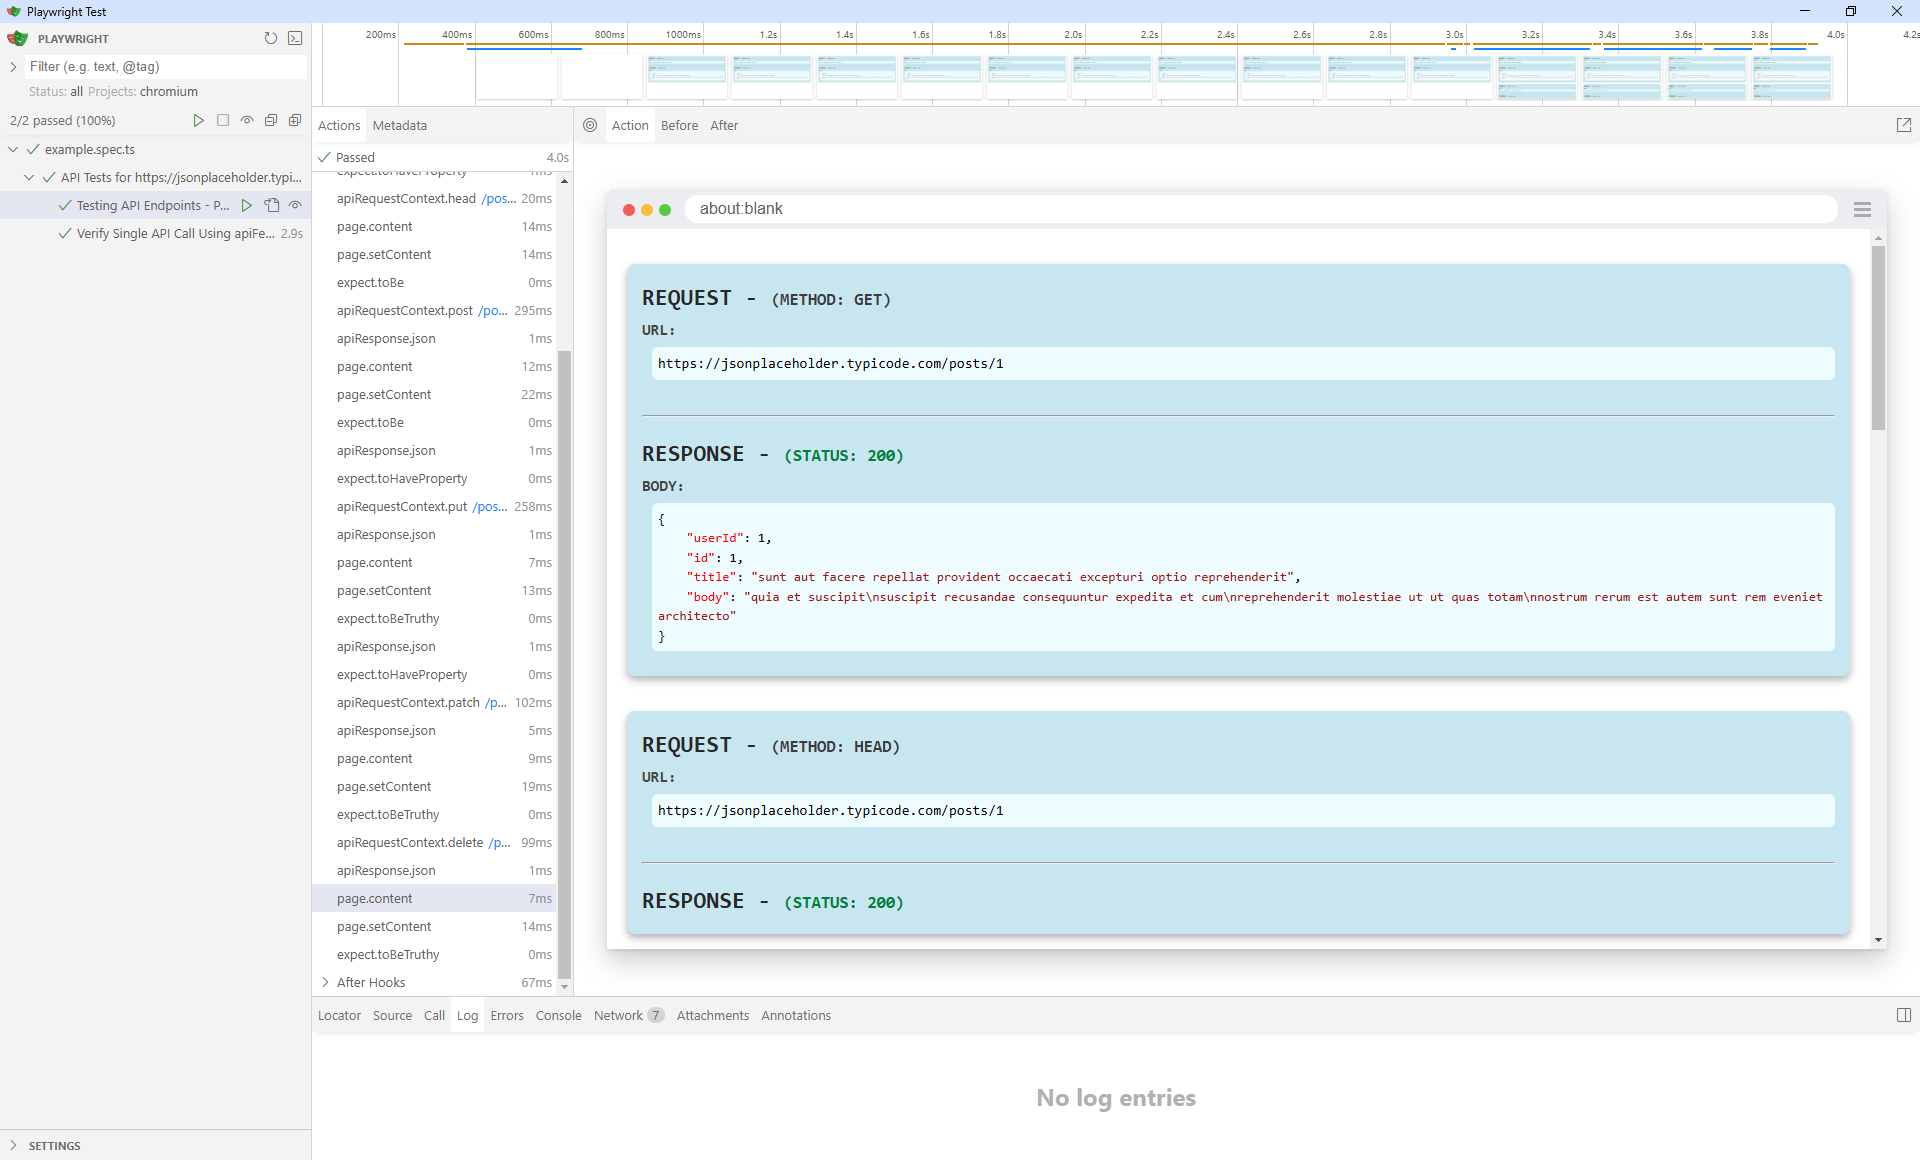
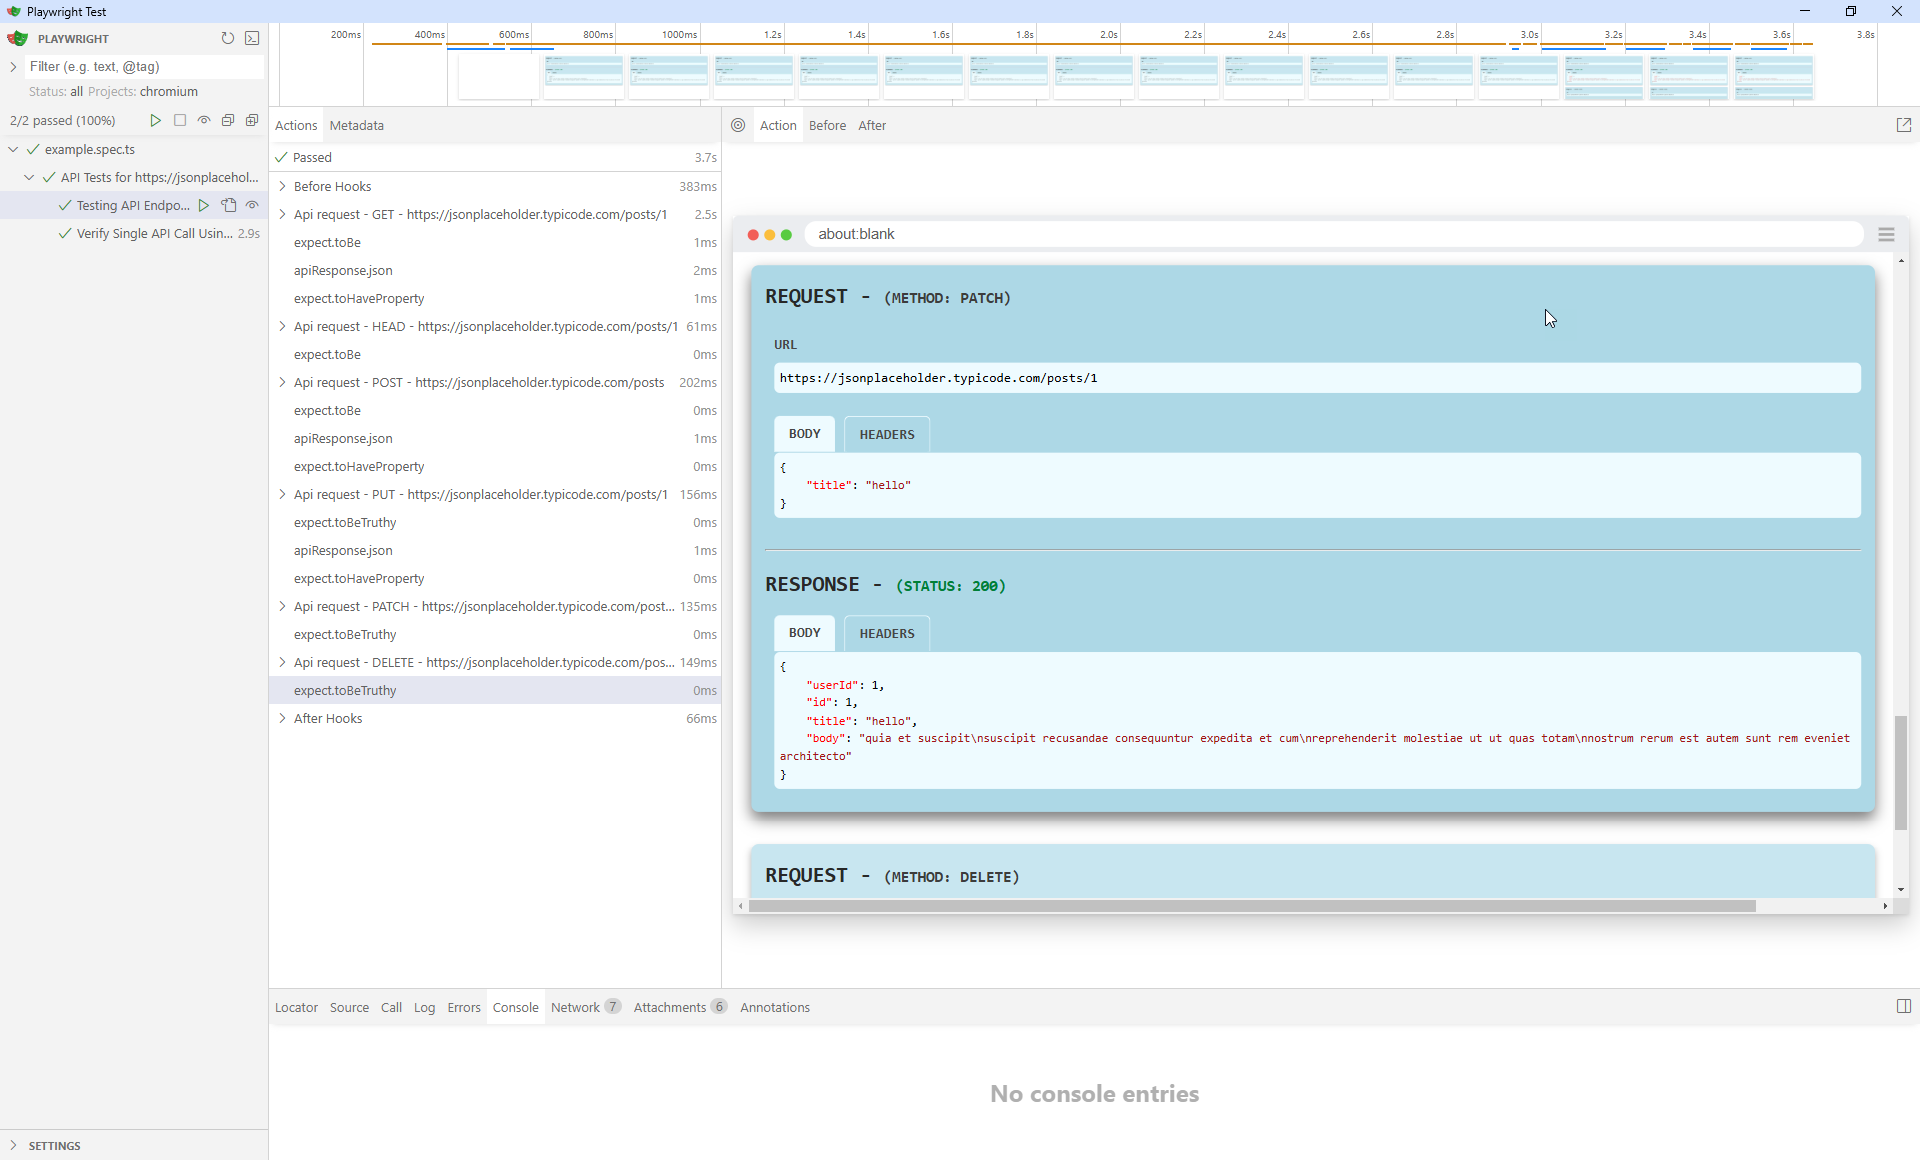
New feature: API requests and results included in HTML report as attachment

diff --git a/src/index.ts b/src/index.ts
@@ -1,6 +1,6 @@
 import hljs from 'highlight.js/lib/common';
 import * as packageJSON from '../package.json'
-import { APIRequestContext, Page, APIResponse, Request } from '@playwright/test';
+import { APIRequestContext, Page, APIResponse, Request, test } from '@playwright/test';
 
 // Obtain the version of highlight.js from package.json
 const hljsVersion: string = packageJSON['dependencies']['highlight.js'].replace(/[\^~]/g, '');
@@ -21,10 +21,11 @@ const hljsVersion: string = packageJSON['dependencies']['highlight.js'].replace(
  * @returns {Promise<APIResponse>} - A promise that resolves to the APIResponse.
  */
 export const apiFetch = async ({ request, page }: { request: APIRequestContext; page: Page }, urlOrRequest: string | Request, options?: object): Promise<APIResponse> => {
-    const response: APIResponse = await request.fetch(urlOrRequest, options);
-    await addApiCardToUI(page, response, options);
-
-    return response;
+    return await test.step(`Api request - FETCH - ${urlOrRequest}`, async () => {
+        const response: APIResponse = await request.fetch(urlOrRequest, options);
+        await addApiCardToUI(page, response, options, true);
+        return response;
+    });
 };
 
 /**
@@ -38,10 +39,11 @@ export const apiFetch = async ({ request, page }: { request: APIRequestContext; 
  * @returns {Promise<APIResponse>} - A promise that resolves to the APIResponse.
  */
 export const apiGet = async ({ request, page }: { request: APIRequestContext; page: Page }, url: string, options?: object): Promise<APIResponse> => {
-    const response: APIResponse = await request.get(url, options);
-    await addApiCardToUI(page, response, { method: 'GET', ...options });
-
-    return response;
+    return await test.step(`Api request - GET - ${url}`, async () => {
+        const response: APIResponse = await request.get(url, options);
+        await addApiCardToUI(page, response, { method: 'GET', ...options });
+        return response;
+    })
 };
 
 /**
@@ -55,10 +57,12 @@ export const apiGet = async ({ request, page }: { request: APIRequestContext; pa
  * @returns {Promise<APIResponse>} - A promise that resolves to the APIResponse.
  */
 export const apiPost = async ({ request, page }: { request: APIRequestContext; page: Page }, url: string, options?: object): Promise<APIResponse> => {
-    const response: APIResponse = await request.post(url, options);
-    await addApiCardToUI(page, response, { method: 'POST', ...options });
+    return await test.step(`Api request - POST - ${url}`, async () => {
+        const response: APIResponse = await request.post(url, options);
+        await addApiCardToUI(page, response, { method: 'POST', ...options });
 
-    return response;
+        return response;
+    })
 };
 
 /**
@@ -72,10 +76,12 @@ export const apiPost = async ({ request, page }: { request: APIRequestContext; p
  * @returns {Promise<APIResponse>} - A promise that resolves to the APIResponse.
  */
 export const apiPut = async ({ request, page }: { request: APIRequestContext; page: Page }, url: string, options?: object): Promise<APIResponse> => {
-    const response: APIResponse = await request.put(url, options);
-    await addApiCardToUI(page, response, { method: 'PUT', ...options });
+    return await test.step(`Api request - PUT - ${url}`, async () => {
+        const response: APIResponse = await request.put(url, options);
+        await addApiCardToUI(page, response, { method: 'PUT', ...options });
 
-    return response;
+        return response;
+    })
 };
 
 /**
@@ -89,10 +95,12 @@ export const apiPut = async ({ request, page }: { request: APIRequestContext; pa
  * @returns {Promise<APIResponse>} - A promise that resolves to the APIResponse.
  */
 export const apiDelete = async ({ request, page }: { request: APIRequestContext; page: Page }, url: string, options?: object): Promise<APIResponse> => {
-    const response: APIResponse = await request.delete(url, options);
-    await addApiCardToUI(page, response, { method: 'DELETE', ...options });
+    return await test.step(`Api request - DELETE - ${url}`, async () => {
+        const response: APIResponse = await request.delete(url, options);
+        await addApiCardToUI(page, response, { method: 'DELETE', ...options });
 
-    return response;
+        return response;
+    })
 };
 
 /**
@@ -106,10 +114,12 @@ export const apiDelete = async ({ request, page }: { request: APIRequestContext;
  * @returns {Promise<APIResponse>} - A promise that resolves to the API response.
  */
 export const apiPatch = async ({ request, page }: { request: APIRequestContext; page: Page }, url: string, options?: object): Promise<APIResponse> => {
-    const response: APIResponse = await request.patch(url, options);
-    await addApiCardToUI(page, response, { method: 'PATCH', ...options });
+    return await test.step(`Api request - PATCH - ${url}`, async () => {
+        const response: APIResponse = await request.patch(url, options);
+        await addApiCardToUI(page, response, { method: 'PATCH', ...options });
 
-    return response;
+        return response;
+    })
 };
 
 /**
@@ -123,10 +133,12 @@ export const apiPatch = async ({ request, page }: { request: APIRequestContext; 
  * @returns {Promise<APIResponse>} - A promise that resolves to the API response.
  */
 export const apiHead = async ({ request, page }: { request: APIRequestContext; page: Page }, url: string, options?: object): Promise<APIResponse> => {
-    const response: APIResponse = await request.head(url, options);
-    await addApiCardToUI(page, response, { method: 'HEAD', ...options });
+    return await test.step(`Api request - HEAD - ${url}`, async () => {
+        const response: APIResponse = await request.head(url, options);
+        await addApiCardToUI(page, response, { method: 'HEAD', ...options });
 
-    return response;
+        return response;
+    })
 };
 
 
@@ -143,11 +155,12 @@ export const apiHead = async ({ request, page }: { request: APIRequestContext; p
  * @param {object} [options] - Optional fetch options.
  * @returns A `Promise` that resolves to `void` when the page content has been updated.
  */
-const addApiCardToUI = async (page: Page, response: APIResponse, options?: object): Promise<void> => {
+const addApiCardToUI = async (page: Page, response: APIResponse, options?: object, fetch?: boolean): Promise<void> => {
+
     const emptyPageHtml = '<html><head></head><body></body></html>';
     let html: string;
 
-    const apiCallHtml = await createApiCallHtml(response, options);
+    const apiCallHtml = await createApiCallHtml(response, options, fetch);
 
     const currentHtml = await page.content();
     if (currentHtml === emptyPageHtml) {
@@ -157,6 +170,7 @@ const addApiCardToUI = async (page: Page, response: APIResponse, options?: objec
     }
 
     await page.setContent(html);
+
 }
 
 /**
@@ -183,8 +197,9 @@ const addApiCallHtml = async (currentHtml: string, apiCallHtml: string): Promise
  * @param {object} [options.body] - The body sent with the request.
  * @returns {Promise<string>} A promise that resolves to a string containing the HTML representation of the API call.
  */
-const createApiCallHtml = async (response: APIResponse, options?: object): Promise<string> => {
+const createApiCallHtml = async (response: APIResponse, options?: object, fetch?: boolean): Promise<string> => {
     const callId = Math.floor(10000000 + Math.random() * 90000000);
+    const fetchLabel = fetch ? ' [From a FETCH]' : '';
 
     // REQUEST
     // ------------------
@@ -210,28 +225,27 @@ const createApiCallHtml = async (response: APIResponse, options?: object): Promi
     }
     const responseBodyJson = responseBody ? formatJson(responseBody) : undefined;
 
-    // Generate the HTML content for the API call (request and response)
-    return `<div class="pw-api-call pw-card">
+    const apiCallHtml = `<div class="pw-api-call pw-card">
         <div class="pw-api-request">
             <label class="title">REQUEST - </label>
-            <label class="title-property">(METHOD: ${requestMethod})</label>
+            <label class="title-property">(METHOD: ${requestMethod}${fetchLabel})</label>
             </br>
 
             <label class="property">URL</label>
             <pre class="hljs pw-api-hljs">${url}</b></pre>
             <div class="pw-req-data-tabs-${callId} pw-data-tabs">
-                ${requestBodyJson ? 
-                `<input type="radio" name="pw-req-data-tabs-${callId}" id="pw-req-body-${callId}" checked="checked">
+                ${requestBodyJson ?
+            `<input type="radio" name="pw-req-data-tabs-${callId}" id="pw-req-body-${callId}" checked="checked">
                 <label for="pw-req-body-${callId}" class="property pw-tab-label">BODY</label>
                 <div class="pw-tab-content">
-                    <pre class="hljs">${requestBodyJson}</pre>
+                    <pre class="hljs" id="req-body-${callId}">${requestBodyJson}</pre>
                 </div>` : ''}
 
-                ${requestHeadersJson ? 
-                `<input type="radio" name="pw-req-data-tabs-${callId}" id="pw-req-headers-${callId}" ${requestBodyJson ? '' : 'checked="checked"'}>
+                ${requestHeadersJson ?
+            `<input type="radio" name="pw-req-data-tabs-${callId}" id="pw-req-headers-${callId}" ${requestBodyJson ? '' : 'checked="checked"'}>
                 <label for="pw-req-headers-${callId}" class="property pw-tab-label">HEADERS</label>
                 <div class="pw-tab-content">
-                    <pre class="hljs">${requestHeadersJson}</pre>
+                    <pre class="hljs" id="req-headers-${callId}">${requestHeadersJson}</pre>
                 </div>` : ''}
             </div>
         </div>
@@ -242,21 +256,37 @@ const createApiCallHtml = async (response: APIResponse, options?: object): Promi
             <br>
             <div class="pw-res-data-tabs-${callId} pw-data-tabs">
                 ${responseBodyJson ?
-                `<input type="radio" name="pw-res-data-tabs-${callId}" id="pw-res-body-${callId}" checked="checked">
+            `<input type="radio" name="pw-res-data-tabs-${callId}" id="pw-res-body-${callId}" checked="checked">
                 <label for="pw-res-body-${callId}" class="property pw-tab-label">BODY</label>
                 <div class="pw-tab-content">
-                    <pre class="hljs">${responseBodyJson}</pre>
+                    <pre class="hljs" id="res-body-${callId}">${responseBodyJson}</pre>
                 </div>` : ''}
 
-                ${responseHeadersJson ? 
-                `<input type="radio" name="pw-res-data-tabs-${callId}" id="pw-res-headers-${callId}" ${responseBodyJson ? '' : 'checked="checked"'}>
+                ${responseHeadersJson ?
+            `<input type="radio" name="pw-res-data-tabs-${callId}" id="pw-res-headers-${callId}" ${responseBodyJson ? '' : 'checked="checked"'}>
                 <label for="pw-res-headers-${callId}" class="property pw-tab-label">HEADERS</label>
                 <div class="pw-tab-content">
-                    <pre class="hljs">${responseHeadersJson}</pre>
+                    <pre class="hljs" id="res-headers-${callId}">${responseHeadersJson}</pre>
                 </div>` : ''}
         </div>
     </div>`
+
+    test.info().attach(`Api request - ${requestMethod}${fetchLabel} - ${url}`, {
+        body: `<html>
+            <head>
+                <link rel="stylesheet" href="https://cdnjs.cloudflare.com/ajax/libs/highlight.js/${hljsVersion}/styles/vs.min.css"/>
+                ${inLineStyles}
+            </head>
+            <body>
+                ${apiCallHtml}
+            </body>
+        </html>`,
+        contentType: 'text/html'
+    })
+
+    return apiCallHtml;
 }
+
 
 /**
  * Generates a simple HTML page as a string.
@@ -322,4 +352,4 @@ const inLineStyles = `<style>
     .pw-data-tabs [type="radio"]:checked + label { background: rgb(238, 251, 255); border: 0px;}
 </style>`
 
-export {}
+export { }

diff --git a/README.md b/README.md
@@ -1,12 +1,13 @@
 # pw-api-plugin
 
-Playwright plugin for comprehensive API testing and presenting results in a user-friendly manner in the Playwright UI.
+Playwright plugin for comprehensive API testing and presenting results in a user-friendly manner in the Playwright UI and HTML Report.
 
 ## Main Features
 
-- Lightweight library introducing new functions: `apiGet`, `apiPost`, `apiPut`, `apiPatch`, `apiDelete`, `apiHead` and `apiFetch` for testing API requests in the Playwright test framework.
-- These functions display each API request and response information in the **Playwright UI**.
-- You can use multiple calls to these functions within the same test if you need to test multiple endpoints.
+- Lightweight library introducing new functions: `apiGet`, `apiPost`, `apiPut`, `apiPatch`, `apiDelete`, `apiHead` and `apiFetch`, designed for testing API requests within the Playwright test framework.
+- These functions display detailed API request and response information in the  **Playwright UI**
+- Each API request and response will also be included as an attachment in the **HTML Report**. _(Introduced in v1.2.0)_
+- The functions support multiple calls within a single test, allowing testing of multiple endpoints as part of the same scenario.
 
 ![Overview](videos/overview.gif)
 
@@ -255,6 +256,26 @@ test.describe('API Tests for https://jsonplaceholder.typicode.com', () => {
 })
 ```
 
+
+### Presentation of API Results
+
+#### In Playwright UI
+
+![Overview and details of API requests and responses presented in the Playwright UI](images/overview.png)
+
+_Overview and details of API requests and responses presented in the Playwright UI._
+
+#### In HTML Report
+
+![Overview and details of API requests and responses presented in the HTML Report](images/html-report1.png)
+
+_Overview and details of API requests and responses presented in the Playwright UI._
+
+![Details of an API request, along with its response, are included as an attachment in the HTML Report](images/html-report2.png)
+
+_Details of an API request, along with its response, are included as an attachment in the HTML Report._
+
+
 ## License
 
 This project is licensed under the MIT License. See the [LICENSE](LICENSE) file for more details.
@@ -286,6 +307,10 @@ Thank you for your support!
 
 
 ## Changelog
+
+### [1.2.0]
+- API requests and results included in HTML report as attachment.
+- Group all the actions of the plugin API call within a `test.step()`
 
 ### [1.1.2]
 - Fixed typo in documentation and examples.
